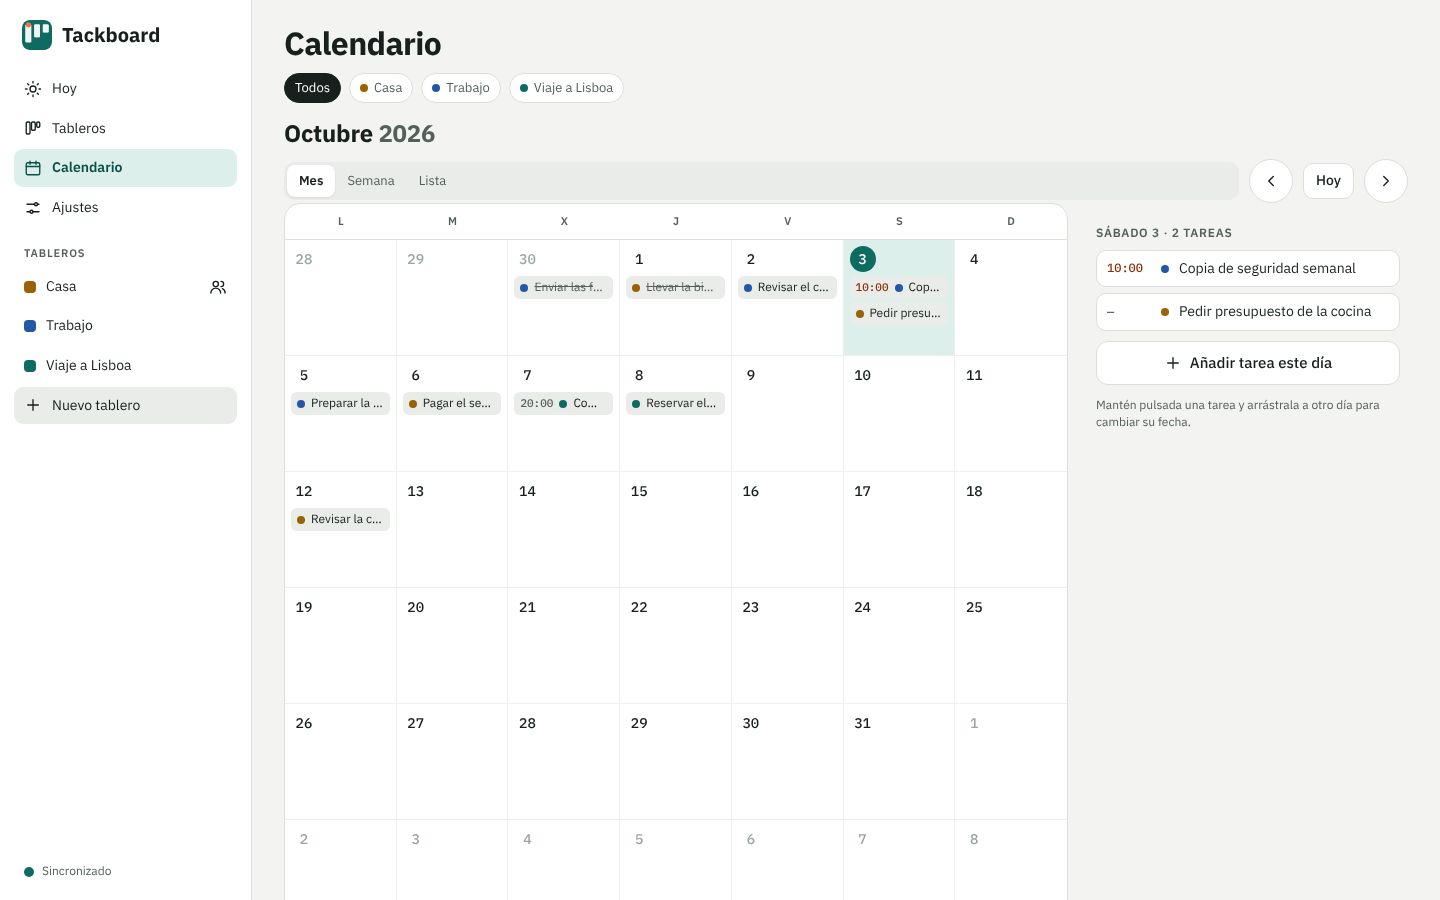
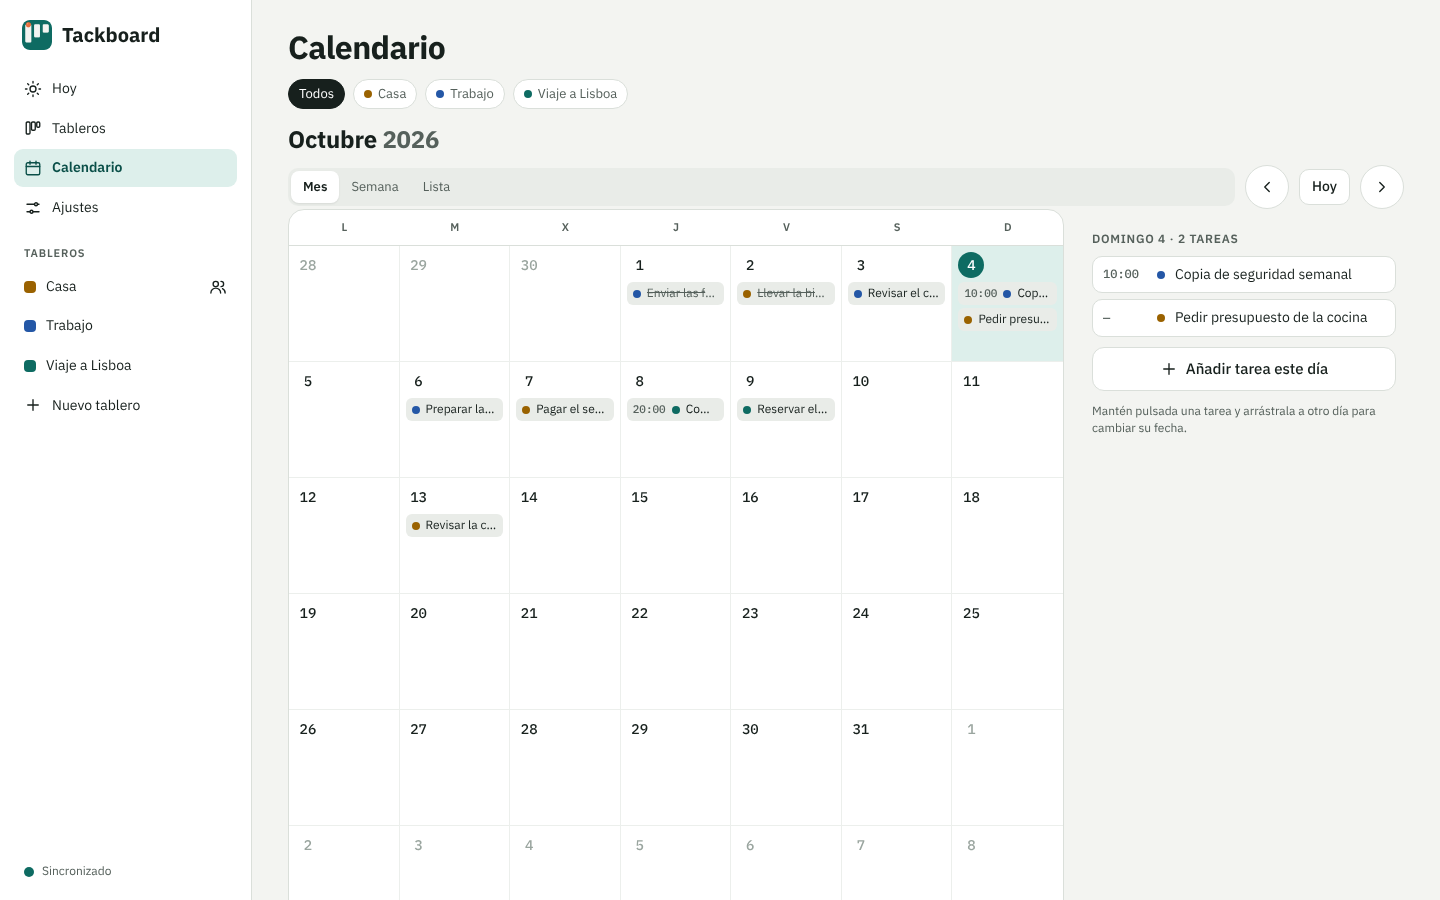
Tackboard 1.0.1: diseño adaptado a tablet y escritorio
Hoy en dos o tres columnas con resumen de tableros, tableros como fichas
con estadísticas, Ajustes en dos columnas, entrada centrada, semana del
calendario en 7 columnas y lista en rejilla. Botón de nueva tarea en la
cabecera en escritorio, etiquetas legibles en tema oscuro y colores que se
conservan al cambiar de vista.

Claude-Session: https://claude.ai/code/session_01EuGwiaYKHabVPQXMK45gBV

diff --git a/app/css/app.css b/app/css/app.css
@@ -420,3 +420,89 @@ body.is-dragging .columns { scroll-snap-type: none; }
 .member .list-row { border-bottom: 0; }
 .member-role { display: flex; align-items: center; justify-content: space-between; gap: 10px; padding: 0 14px 12px 62px; }
 .member-role .select { width: auto; min-height: 38px; padding: 6px 10px; }
+
+/* ==================================================================================================
+   Adaptación a tablet y escritorio
+   ================================================================================================== */
+.desk-only { display: none !important; }
+.page { width: 100%; }
+.empty-card {
+  display: flex; flex-direction: column; align-items: center; gap: 10px; text-align: center;
+  padding: 40px 24px; border: 1.5px dashed var(--line); border-radius: 18px; background: var(--surface); color: var(--muted);
+}
+.empty-card strong { color: var(--ink); font-size: 18px; }
+.empty-card .btn { margin-top: 6px; }
+.small-empty { padding: 18px; border: 1.5px dashed var(--line); border-radius: 14px; text-align: left; }
+.today-grid { display: grid; grid-template-columns: minmax(0, 1fr); gap: 0 28px; align-items: start; }
+.today-boards .list-row { min-height: 48px; }
+
+/* Tableros como fichas */
+.board-grid { display: grid; grid-template-columns: repeat(auto-fill, minmax(250px, 1fr)); gap: 14px; }
+.board-tile {
+  position: relative; display: flex; flex-direction: column; gap: 12px; min-height: 148px; overflow: hidden;
+  padding: 18px 16px 14px; background: var(--surface); border: 1px solid var(--line); border-radius: 16px;
+  text-decoration: none; color: inherit; transition: border-color .15s, transform .15s;
+}
+.board-tile::before { content: ""; position: absolute; left: 0; top: 0; right: 0; height: 4px; background: var(--c, var(--accent)); }
+.board-tile:hover { border-color: var(--c, var(--accent)); transform: translateY(-1px); }
+.tile-top { display: flex; align-items: center; gap: 10px; }
+.tile-name { flex: 1; min-width: 0; font-size: 17px; overflow: hidden; text-overflow: ellipsis; white-space: nowrap; }
+.tile-shared { display: inline-flex; align-items: center; gap: 4px; font-size: 12px; color: var(--muted); }
+.tile-stats { display: flex; flex-wrap: wrap; gap: 4px 16px; font-size: 13px; color: var(--muted); }
+.tile-stats b { color: var(--ink); font-size: 19px; margin-right: 3px; }
+.tile-stats .error-text b { color: var(--danger-text); }
+.tile-foot { margin-top: auto; font-size: 12px; color: var(--muted); }
+.board-tile.add { align-items: center; justify-content: center; gap: 8px; border-style: dashed; border-width: 1.5px; background: transparent; color: var(--muted); font: inherit; cursor: pointer; }
+.board-tile.add::before { display: none; }
+
+/* Tablet: contenido centrado y en dos columnas cuando cabe */
+@media (min-width: 700px) {
+  .page { max-width: 1240px; margin: 0 auto; }
+  .page.wide { max-width: 1640px; }
+  .page-head { padding-left: 28px; padding-right: 28px; }
+  .section, .summary-chips, .cal-filter { padding-left: 28px; padding-right: 28px; }
+  .cal-wrap { padding: 0 28px; }
+  .today-grid { grid-template-columns: repeat(2, minmax(0, 1fr)); }
+  .today-boards { grid-column: 1 / -1; }
+  .settings-grid { display: grid; grid-template-columns: repeat(2, minmax(0, 1fr)); gap: 0 28px; align-items: start; }
+  .auth-page .main { display: flex; align-items: center; justify-content: center; min-height: 100dvh; padding: 24px; }
+  .auth {
+    width: 440px; margin: 0; padding: 32px 36px 24px;
+    background: var(--surface); border: 1px solid var(--line); border-radius: 22px; box-shadow: var(--shadow);
+  }
+}
+.auth-page .app { display: block; }
+
+/* Escritorio */
+@media (min-width: 1024px) {
+  .desk-only { display: inline-flex !important; }
+  .mobile-only { display: none !important; }
+  .page-head { padding: 30px 36px 14px; }
+  .section, .summary-chips, .cal-filter { padding-left: 36px; padding-right: 36px; }
+  .cal-wrap { padding: 0 36px; }
+  .board-head { padding: 24px 36px 10px; }
+  .columns { padding: 4px 36px 32px; gap: 14px; }
+  .drag-hint { padding: 0 36px; }
+  .column { width: clamp(280px, 19vw, 340px); }
+  .cal-side.no-side { grid-template-columns: minmax(0, 1fr); }
+  .week-grid { display: grid; grid-template-columns: repeat(7, minmax(0, 1fr)); gap: 10px; }
+  .week-grid .week-day { margin: 0; min-height: 380px; }
+  .week-grid .mini { font-size: 13px; gap: 6px; padding: 7px 8px; }
+  .week-grid .mini .when { width: auto; }
+  .week-grid .mini .when.notime { display: none; }
+  .list-grid { display: grid; grid-template-columns: repeat(auto-fill, minmax(320px, 1fr)); gap: 10px; align-items: start; }
+  .list-grid .week-day { margin: 0; }
+}
+@media (min-width: 1280px) {
+  .today-grid { grid-template-columns: minmax(0, 1.15fr) minmax(0, 1fr) minmax(250px, .75fr); }
+  .today-boards { grid-column: auto; }
+}
+/* Que el botón flotante no tape la última tarea en el móvil */
+@media (max-width: 1023px) { .main { padding-bottom: calc(var(--tabbar-h) + 88px); } }
+/* Etiquetas legibles en tema oscuro */
+:root[data-theme="dark"] .lbl { color: color-mix(in srgb, var(--c, var(--accent)) 50%, #ffffff); background: color-mix(in srgb, var(--c, var(--accent)) 26%, var(--surface)); }
+:root[data-theme="dark"] .prio-high { color: var(--danger-text); background: var(--danger-soft); }
+:root[data-theme="dark"] .prio-medium { color: var(--warn-text); background: var(--warn-soft); }
+:root[data-theme="dark"] .prio-low { color: var(--muted); background: var(--surface-2); }
+.board-grid { margin-top: 6px; }
+@media (max-width: 699px) { .board-tile.add { min-height: 64px; flex-direction: row; } }

diff --git a/app/js/views/calendar.js b/app/js/views/calendar.js
@@ -1,6 +1,6 @@
 // Calendario: mes, semana y lista. Las tarjetas se pueden arrastrar a otro día para cambiar su fecha.
 import * as S from '../store.js';
-import { esc, icon, todayStr, addDays, parseDate, dateStr, DOW, MONTHS, cap, isOverdue, toast, dueLabel } from '../util.js';
+import { esc, icon, todayStr, addDays, parseDate, dateStr, DOW, MONTHS, cap, isOverdue, toast, dueLabel, paint } from '../util.js';
 import { miniRow, sortByDue } from './parts.js';
 import { enableDrag } from '../drag.js';
 import { openCard, openNewTask } from '../sheets.js';
@@ -44,6 +44,7 @@ export function renderCalendar(main, routeBoard = null) {
       ${view.mode !== 'list' ? `<button type="button" class="icon-btn" data-nav="-1" aria-label="${view.mode === 'month' ? 'Mes' : 'Semana'} anterior">${icon('left', 's')}</button>
       <button type="button" class="btn sm" data-nav="0">Hoy</button>
       <button type="button" class="icon-btn" data-nav="1" aria-label="${view.mode === 'month' ? 'Mes' : 'Semana'} siguiente">${icon('right', 's')}</button>` : ''}
+      ${view.mode !== 'month' && S.boards().some((bb) => S.can(bb.id, 'write')) ? `<button type="button" class="btn primary sm desk-only" data-new="${view.selected}">${icon('plus', 's')} Nueva tarea</button>` : ''}
     </div>`;
 
   let body = '';
@@ -64,23 +65,25 @@ export function renderCalendar(main, routeBoard = null) {
       <div class="cal-grid">${cells}</div></div>`;
   } else if (view.mode === 'week') {
     const start = mondayOf(view.selected);
-    body = Array.from({ length: 7 }, (_, i) => addDays(start, i)).map((d) => {
+    body = '<div class="week-grid">' + Array.from({ length: 7 }, (_, i) => addDays(start, i)).map((d) => {
       const list = byDay.get(d) || [];
       const dd = parseDate(d);
       return `<div class="week-day ${d === t ? 'today' : ''}" data-drop-day="${d}">
         <h3><span>${esc(cap(DOW[dd.getDay()]))} ${dd.getDate()} ${esc(MONTHS[dd.getMonth()])}</span><span>${list.length || ''}</span></h3>
         ${list.map((c) => miniRow(c, true)).join('')}</div>`;
-    }).join('');
+    }).join('') + '</div>';
   } else {
     const overdue = cards.filter((c) => !c.data.done && !c.data.archived && isOverdue(c.data)).sort(sortByDue);
     const days = [...byDay.keys()].filter((d) => d >= t).sort().slice(0, 60);
-    body = (overdue.length ? `<div class="week-day"><h3 class="error-text"><span>Vencidas</span><span>${overdue.length}</span></h3>
+    body = '<div class="list-grid">' + (overdue.length ? `<div class="week-day"><h3 class="error-text"><span>Vencidas</span><span>${overdue.length}</span></h3>
         ${overdue.map((c) => miniRowWithDate(c)).join('')}</div>` : '')
       + (days.length ? days.map((d) => {
         const dd = parseDate(d);
-        return `<div class="week-day ${d === t ? 'today' : ''}" data-drop-day="${d}"><h3><span>${esc(cap(dueLabel(d)))} · ${dd.getDate()} ${esc(MONTHS[dd.getMonth()])}</span></h3>
+        const rel = dueLabel(d);
+        const head = /^\d/.test(rel) ? `${cap(DOW[dd.getDay()])} · ${dd.getDate()} ${MONTHS[dd.getMonth()]}` : `${cap(rel)} · ${dd.getDate()} ${MONTHS[dd.getMonth()]}`;
+        return `<div class="week-day ${d === t ? 'today' : ''}" data-drop-day="${d}"><h3><span>${esc(head)}</span></h3>
           ${byDay.get(d).map((c) => miniRow(c, true)).join('')}</div>`;
-      }).join('') : '<div class="empty">No hay tareas con fecha a partir de hoy.</div>');
+      }).join('') : '<div class="empty">No hay tareas con fecha a partir de hoy.</div>') + '</div>';
   }
 
   const sel = parseDate(view.selected);
@@ -91,11 +94,11 @@ export function renderCalendar(main, routeBoard = null) {
       ${S.boards().some((bb) => S.can(bb.id, 'write')) ? `<div class="sep"></div><button type="button" class="btn block" data-new="${view.selected}">${icon('plus', 's')} Añadir tarea este día</button>` : ''}
       <p class="hint">Mantén pulsada una tarea y arrástrala a otro día para cambiar su fecha.</p></div>` : '';
 
-  main.innerHTML = `${header}
+  main.innerHTML = `<div class="page wide">${header}
     ${view.mode === 'month' ? `<div class="section"><h2 class="cal-title">${esc(cap(MONTHS[m - 1]))} <span class="muted">${y}</span></h2></div>` : ''}
     ${modeBar}
-    <div class="cal-wrap"><div class="cal-side" id="cal-root"><div>${body}</div>${side}</div></div>
-    ${view.mode !== 'month' && S.boards().some((bb) => S.can(bb.id, 'write')) ? `<button type="button" class="fab" data-new="${view.selected}" aria-label="Nueva tarea">${icon('plus')}</button>` : ''}`;
+    <div class="cal-wrap"><div class="cal-side ${side ? '' : 'no-side'}" id="cal-root"><div>${body}</div>${side}</div></div></div>
+    ${view.mode !== 'month' && S.boards().some((bb) => S.can(bb.id, 'write')) ? `<button type="button" class="fab mobile-only" data-new="${view.selected}" aria-label="Nueva tarea">${icon('plus')}</button>` : ''}`;
 
   main.onclick = (e) => {
     const op = e.target.closest('[data-open]');
@@ -121,6 +124,7 @@ export function renderCalendar(main, routeBoard = null) {
     }
   };
 
+  paint(main);
   enableDrag(main.querySelector('#cal-root'), {
     onDrop: ({ id, day }) => {
       if (!day) return;

diff --git a/app/js/views/board.js b/app/js/views/board.js
@@ -1,29 +1,42 @@
 // Lista de tableros y vista Kanban de un tablero.
 import * as S from '../store.js';
-import { esc, icon, plural, COLORS, toast } from '../util.js';
-import { boardCard } from './parts.js';
+import { esc, icon, plural, COLORS, toast, todayStr, paint } from '../util.js';
+import { boardCard, boardStats } from './parts.js';
 import { enableDrag } from '../drag.js';
 import { openCard, openNewBoard, openBoardMenu, openShare, openInvitations, openColumns } from '../sheets.js';
 
 // ---------- Lista de tableros ----------
 export function renderBoards(main) {
   const list = S.boards();
-  main.innerHTML = `
+  const t = todayStr();
+  main.innerHTML = `<div class="page">
     <header class="page-head"><h1>Tableros</h1>
-      <button type="button" class="btn primary sm" data-act="new">${icon('plus', 's')} Nuevo</button></header>
+      <button type="button" class="btn primary sm" data-act="new">${icon('plus', 's')} Nuevo tablero</button></header>
     <div class="section">
       ${S.state.invitations ? `<button type="button" class="callout list-row" data-act="inv">${icon('inbox')}
         <span class="grow">Tienes ${plural(S.state.invitations, 'invitación', 'invitaciones')}</span>${icon('right', 's')}</button><div class="sep"></div>` : ''}
-      ${list.length ? `<div class="list">${list.map((b) => {
-        const open = S.cards((c) => c.boardId === b.id && !c.data.done && !c.data.archived).length;
+      ${list.length ? `<div class="board-grid">${list.map((b) => {
+        const st = boardStats(b.id, t);
         const info = S.state.boardInfo.get(b.id);
         const role = S.roleOf(b.id);
-        return `<a class="list-row" href="#/tablero/${esc(b.id)}"><span class="sq" data-c="${esc(b.data.color)}"></span>
-          <span class="grow"><strong>${esc(b.data.name)}</strong><br><span class="small muted">${plural(open, 'tarea abierta', 'tareas abiertas')}${
-            info && info.members > 1 ? ` · compartido con ${info.members - 1}` : ''}${role !== 'owner' ? ` · ${S.ROLE_NAME[role]} (de @${esc(info?.owner || '?')})` : ''}</span></span>${icon('right', 's')}</a>`;
-      }).join('')}</div>`
-        : `<div class="empty"><strong>Aún no tienes tableros</strong>Crea uno para cada ámbito: Casa, Trabajo, Homelab…</div>`}
-    </div>`;
+        const pct = st.total ? Math.round(st.done / st.total * 100) : 0;
+        return `<a class="board-tile" href="#/tablero/${esc(b.id)}" data-c="${esc(b.data.color)}">
+          <span class="tile-top"><span class="sq" data-c="${esc(b.data.color)}"></span><strong class="tile-name">${esc(b.data.name)}</strong>
+            ${info && info.members > 1 ? `<span class="tile-shared" title="Compartido">${icon('users', 's')}${info.members}</span>` : ''}</span>
+          <span class="tile-stats">
+            <span><b>${st.open}</b> abiertas</span>
+            ${st.late ? `<span class="error-text"><b>${st.late}</b> vencidas</span>` : ''}
+            <span><b>${st.done}</b> hechas</span>
+          </span>
+          <span class="progress" aria-label="${pct}% completado"><i data-p="${pct}" data-c="${esc(b.data.color)}"></i></span>
+          <span class="tile-foot">${role === 'owner' ? (info && info.members > 1 ? `Compartido con ${info.members - 1}` : 'Solo tú')
+            : `${S.ROLE_NAME[role]} · de @${esc(info?.owner || '?')}`}</span>
+        </a>`;
+      }).join('')}
+        <button type="button" class="board-tile add" data-act="new">${icon('plus')}<span>Nuevo tablero</span></button></div>`
+        : `<div class="empty-card"><strong>Aún no tienes tableros</strong><span>Crea uno para cada ámbito: Casa, Trabajo, Homelab…</span>
+            <button type="button" class="btn primary" data-act="new">${icon('plus', 's')} Crear tablero</button></div>`}
+    </div></div>`;
   main.onclick = (e) => {
     const act = e.target.closest('[data-act]')?.dataset.act;
     if (act === 'new') openNewBoard();
@@ -101,6 +114,7 @@ export function renderBoard(main, boardId) {
     </div>
     ${canWrite ? `<p class="drag-hint">${filtering ? 'Quita el filtro para poder mover tarjetas.' : 'Mantén pulsada una tarjeta para moverla. También puedes cambiar su columna desde la propia tarjeta.'}</p>` : ''}`;
 
+  paint(main);
   const colsEl = main.querySelector('#columns');
   colsEl.scrollLeft = prevScroll;
   for (const n of main.querySelectorAll('[data-drop-col]')) n.scrollTop = prevLists.get(n.dataset.dropCol) || 0;

diff --git a/app/js/views/today.js b/app/js/views/today.js
@@ -1,7 +1,7 @@
 // Pantalla Hoy: vencidas, de hoy y próximos 7 días.
 import * as S from '../store.js';
 import { esc, icon, todayStr, addDays, parseDate, DOW, MONTHS, plural } from '../util.js';
-import { taskRow, sortByDue } from './parts.js';
+import { taskRow, sortByDue, boardStats } from './parts.js';
 import { openCard, openNewTask, openNewBoard, openInvitations } from '../sheets.js';
 
 export function renderToday(main) {
@@ -15,26 +15,43 @@ export function renderToday(main) {
   const todayOpen = today.filter((c) => !c.data.done).length;
   const hasBoards = S.boards().length > 0;
 
-  main.innerHTML = `
+  const boards = S.boards();
+  const stats = boards.map((b) => ({ b, ...boardStats(b.id, t) }));
+
+  main.innerHTML = `<div class="page">
     <header class="page-head">
       <div><div class="eyebrow">${esc(DOW[now.getDay()])} · ${now.getDate()} ${esc(MONTHS[now.getMonth()])}</div><h1>Hoy</h1></div>
+      ${hasBoards ? `<button type="button" class="btn primary desk-only" data-act="new-task">${icon('plus', 's')} Nueva tarea</button>` : ''}
     </header>
     ${S.state.invitations ? `<div class="section"><button type="button" class="callout list-row" data-act="invitations">
       ${icon('inbox')}<span class="grow">Tienes ${plural(S.state.invitations, 'invitación', 'invitaciones')} a tableros</span>${icon('right', 's')}</button></div>` : ''}
-    <div class="summary-chips chips">
+    ${hasBoards ? `<div class="summary-chips chips">
       ${overdue.length ? `<span class="chip danger">${plural(overdue.length, 'vencida', 'vencidas')}</span>` : ''}
       <span class="chip accent">${todayOpen} para hoy</span>
       <span class="chip">${next.length} en 7 días</span>
+    </div>` : ''}
+    ${!hasBoards ? `<div class="section"><div class="empty-card"><strong>Empieza creando un tablero</strong>
+        <span>Un tablero agrupa las tareas de un ámbito: Casa, Trabajo, Homelab…</span>
+        <button type="button" class="btn primary" data-act="new-board">${icon('plus', 's')} Crear tablero</button></div></div>` : `
+    <div class="section today-grid">
+      <section class="today-col" aria-label="Para hoy">
+        ${overdue.length ? `<h2 class="section-title danger">Vencidas</h2>${overdue.map(taskRow).join('')}` : ''}
+        <h2 class="section-title accent">Hoy</h2>
+        ${today.length ? today.map(taskRow).join('') : '<div class="empty small-empty">Nada para hoy.</div>'}
+      </section>
+      <section class="today-col" aria-label="Próximos 7 días">
+        <h2 class="section-title">Próximos 7 días</h2>
+        ${next.length ? next.map(taskRow).join('') : '<div class="empty small-empty">Nada con fecha esta semana.</div>'}
+      </section>
+      <section class="today-col today-boards" aria-label="Tus tableros">
+        <h2 class="section-title">Tus tableros</h2>
+        <div class="list">${stats.map(({ b, open, late }) => `<a class="list-row" href="#/tablero/${esc(b.id)}">
+          <span class="sq" data-c="${esc(b.data.color)}"></span><span class="grow">${esc(b.data.name)}</span>
+          ${late ? `<span class="chip danger">${late}</span>` : ''}<span class="muted small">${plural(open, 'abierta', 'abiertas')}</span></a>`).join('')}</div>
+      </section>
+    </div>`}
     </div>
-    <div class="section today-wrap">
-      ${!hasBoards ? `<div class="empty"><strong>Empieza creando un tablero</strong>Un tablero agrupa tareas de un ámbito: Casa, Trabajo, Homelab…
-          <p><button type="button" class="btn primary" data-act="new-board">${icon('plus', 's')} Crear tablero</button></p></div>` : ''}
-      ${overdue.length ? `<h2 class="section-title danger">Vencidas</h2>${overdue.map(taskRow).join('')}` : ''}
-      <h2 class="section-title accent">Hoy</h2>
-      ${today.length ? today.map(taskRow).join('') : `<div class="empty">Nada para hoy.${hasBoards ? ' Pulsa + para añadir una tarea.' : ''}</div>`}
-      ${next.length ? `<h2 class="section-title">Próximos 7 días</h2>${next.map(taskRow).join('')}` : ''}
-    </div>
-    ${hasBoards ? `<button type="button" class="fab" data-act="new-task" aria-label="Nueva tarea">${icon('plus')}</button>` : ''}`;
+    ${hasBoards ? `<button type="button" class="fab mobile-only" data-act="new-task" aria-label="Nueva tarea">${icon('plus')}</button>` : ''}`;
 
   main.onclick = (e) => {
     const tg = e.target.closest('[data-toggle]');

diff --git a/app/js/views/settings.js b/app/js/views/settings.js
@@ -6,7 +6,7 @@ import { confirmDialog, openSheet } from '../ui.js';
 import { openInvitations } from '../sheets.js';
 import { showRecoveryCode } from './auth.js';
 
-export const APP_VERSION = '1.0.0';
+export const APP_VERSION = '1.0.1';
 
 function syncText() {
   const s = S.state.sync;
@@ -27,9 +27,9 @@ export function syncClass() {
 export function renderSettings(main) {
   const u = S.state.user;
   const theme = S.state.settings.theme || 'auto';
-  main.innerHTML = `
+  main.innerHTML = `<div class="page">
     <header class="page-head"><h1>Ajustes</h1></header>
-    <div class="section today-wrap">
+    <div class="section settings-grid"><div class="settings-col">
       <h2 class="section-title">Cuenta</h2>
       <div class="list">
         <div class="list-row"><span class="avatar" data-c="#0E6B62">${esc((u.name || u.username).charAt(0))}</span>
@@ -53,7 +53,7 @@ export function renderSettings(main) {
       <div class="list"><div class="list-row"><span class="grow">Tema</span>
         <span class="seg" role="group" aria-label="Tema">${[['auto', 'Automático'], ['light', 'Claro'], ['dark', 'Oscuro']].map(([k, n]) =>
           `<button type="button" data-theme-set="${k}" aria-pressed="${theme === k}">${n}</button>`).join('')}</span></div></div>
-
+    </div><div class="settings-col">
       <h2 class="section-title">Seguridad</h2>
       <div class="list">
         <button type="button" class="list-row" data-act="pw"><span class="grow">Cambiar contraseña</span>${icon('right', 's')}</button>
@@ -72,7 +72,7 @@ export function renderSettings(main) {
       <div class="sep"></div>
       <button type="button" class="btn block" data-act="logout">Cerrar sesión</button>
       <p class="hint">Tackboard ${APP_VERSION} · <a href="https://github.com/enriquezaporta/tackboard" rel="noopener noreferrer" target="_blank">Código fuente</a></p>
-    </div>`;
+    </div></div></div>`;
 
   main.querySelector('#acc-inv').addEventListener('change', async (e) => {
     try { const r = await post('/api/me', { acceptInvites: e.target.checked }); await S.setUser(r.user); }

diff --git a/app/js/views/parts.js b/app/js/views/parts.js
@@ -70,3 +70,14 @@ export function miniRow(card, draggable) {
 }
 
 export const sortByDue = (a, b) => (a.data.due.localeCompare(b.data.due)) || ((a.data.dueTime || '99').localeCompare(b.data.dueTime || '99')) || a.data.title.localeCompare(b.data.title);
+
+/** Recuento de un tablero: abiertas, vencidas, hechas y total (sin archivadas). */
+export function boardStats(boardId, today) {
+  const list = S.cards((c) => c.boardId === boardId && !c.data.archived);
+  let open = 0, late = 0, done = 0;
+  for (const c of list) {
+    if (c.data.done) done++;
+    else { open++; if (c.data.due && c.data.due < today) late++; }
+  }
+  return { open, late, done, total: list.length };
+}

diff --git a/app/sw.js b/app/sw.js
@@ -1,5 +1,5 @@
 // Service worker: guarda la app para que funcione sin conexión. La API nunca se guarda en caché.
-const VERSION = 'tackboard-1.0.0';
+const VERSION = 'tackboard-1.0.1';
 const SHELL = [
   './', 'index.html', 'privacy.html', 'terms.html', 'manifest.webmanifest',
   'css/app.css', 'css/fonts.css',

diff --git a/backend/server.py b/backend/server.py
@@ -55,7 +55,7 @@ from collections import OrderedDict
 from http.server import BaseHTTPRequestHandler, ThreadingHTTPServer
 from urllib.parse import unquote, urlparse
 
-VERSION = "1.0.0"
+VERSION = "1.0.1"
 POLICY_VERSION = "2026-10"
 
 DB_PATH = os.environ.get("TB_DB", "/var/lib/tackboard/tackboard.db")

diff --git a/CHANGELOG.md b/CHANGELOG.md
@@ -1,5 +1,15 @@
 # Cambios
 
+## 1.0.1 — 2026-10-04
+
+- Diseño adaptado a tablet y escritorio: contenido centrado y aprovechando el ancho.
+  - *Hoy* en dos o tres columnas (hoy, próximos 7 días y resumen de tableros).
+  - Tableros como fichas con tareas abiertas, vencidas, hechas y progreso.
+  - *Ajustes* en dos columnas; pantalla de entrada centrada.
+  - Calendario: la semana en 7 columnas y la lista en rejilla.
+- Botón «Nueva tarea» en la cabecera en escritorio (el botón flotante queda para el móvil) y ya no tapa la última tarea.
+- Etiquetas más legibles en tema oscuro y colores que se conservaban al cambiar de vista en el calendario y el tablero.
+
 ## 1.0.0 — 2026-10-03
 
 Primera versión.
